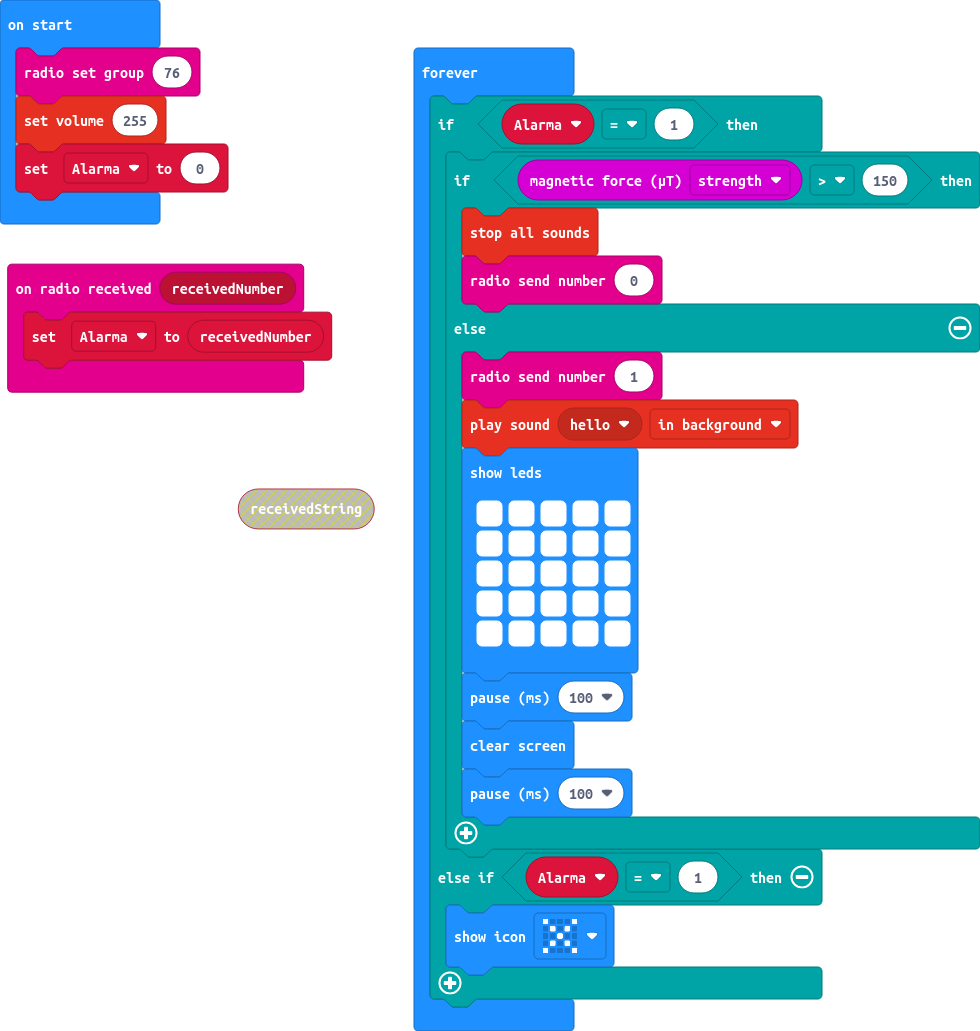
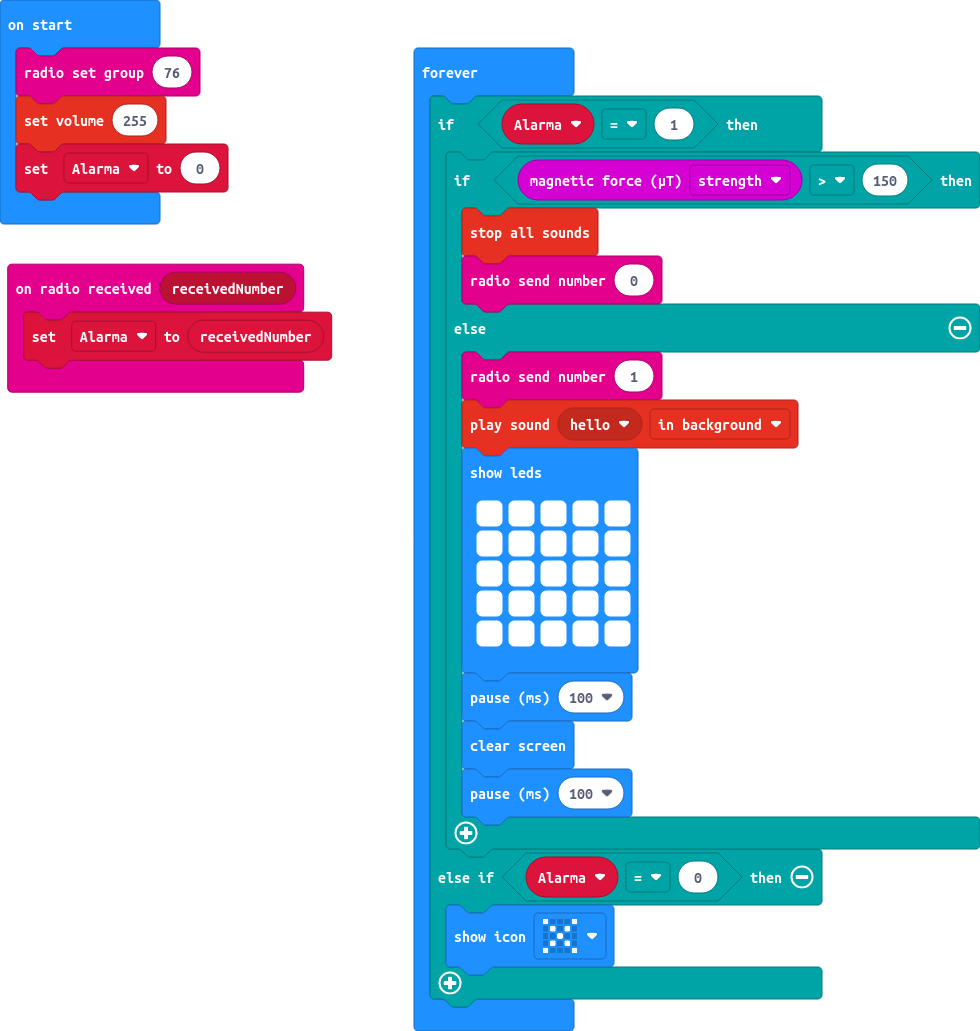
Update main.blocks, main.ts

Changed region(s): [[0.2449, 0.4656, 0.398, 0.5276]]

diff --git a/main.ts b/main.ts
@@ -24,7 +24,7 @@ basic.forever(function () {
             basic.clearScreen()
             basic.pause(100)
         }
-    } else if (Alarma == 1) {
+    } else if (Alarma == 0) {
         basic.showIcon(IconNames.No)
     }
 })
